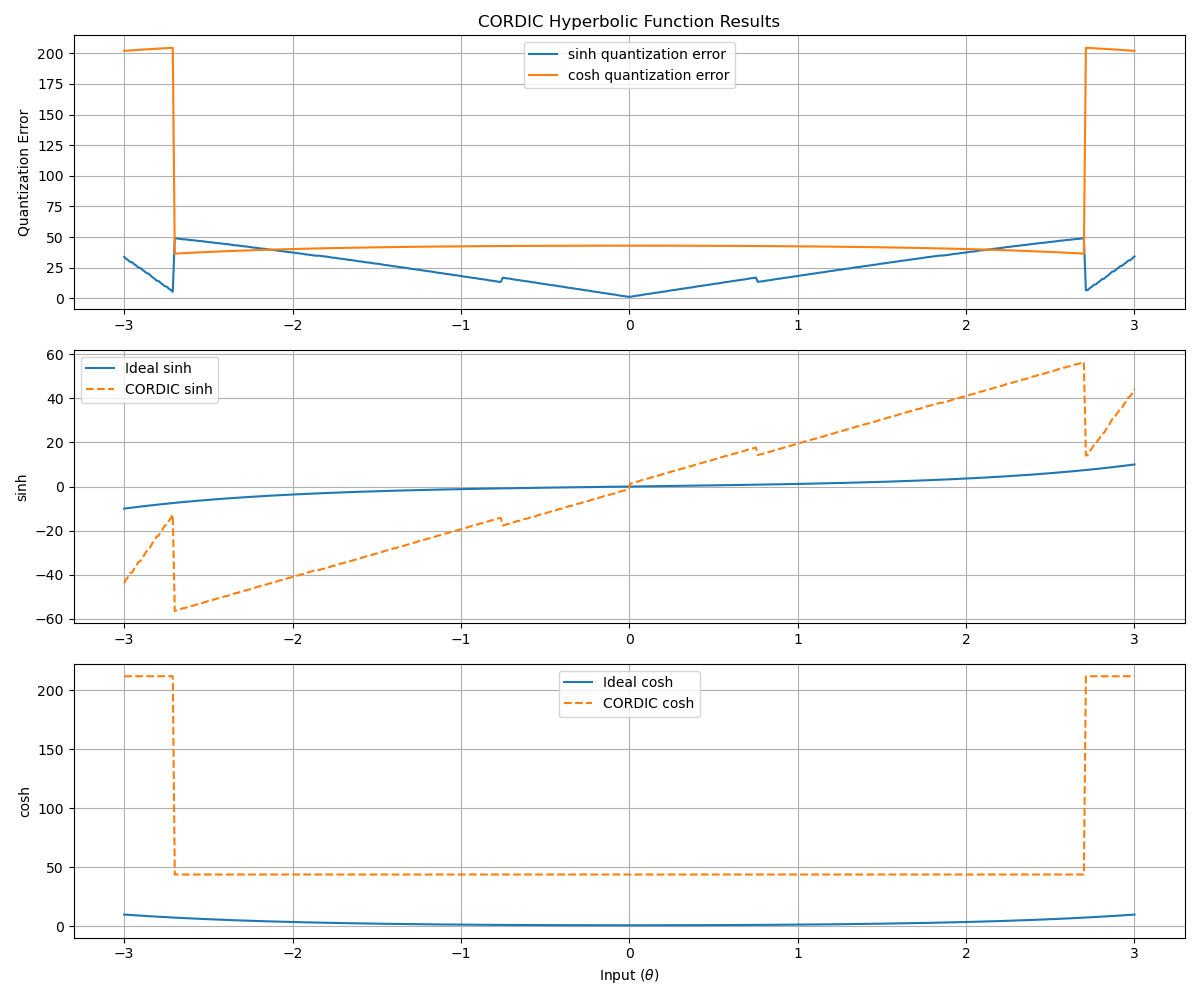
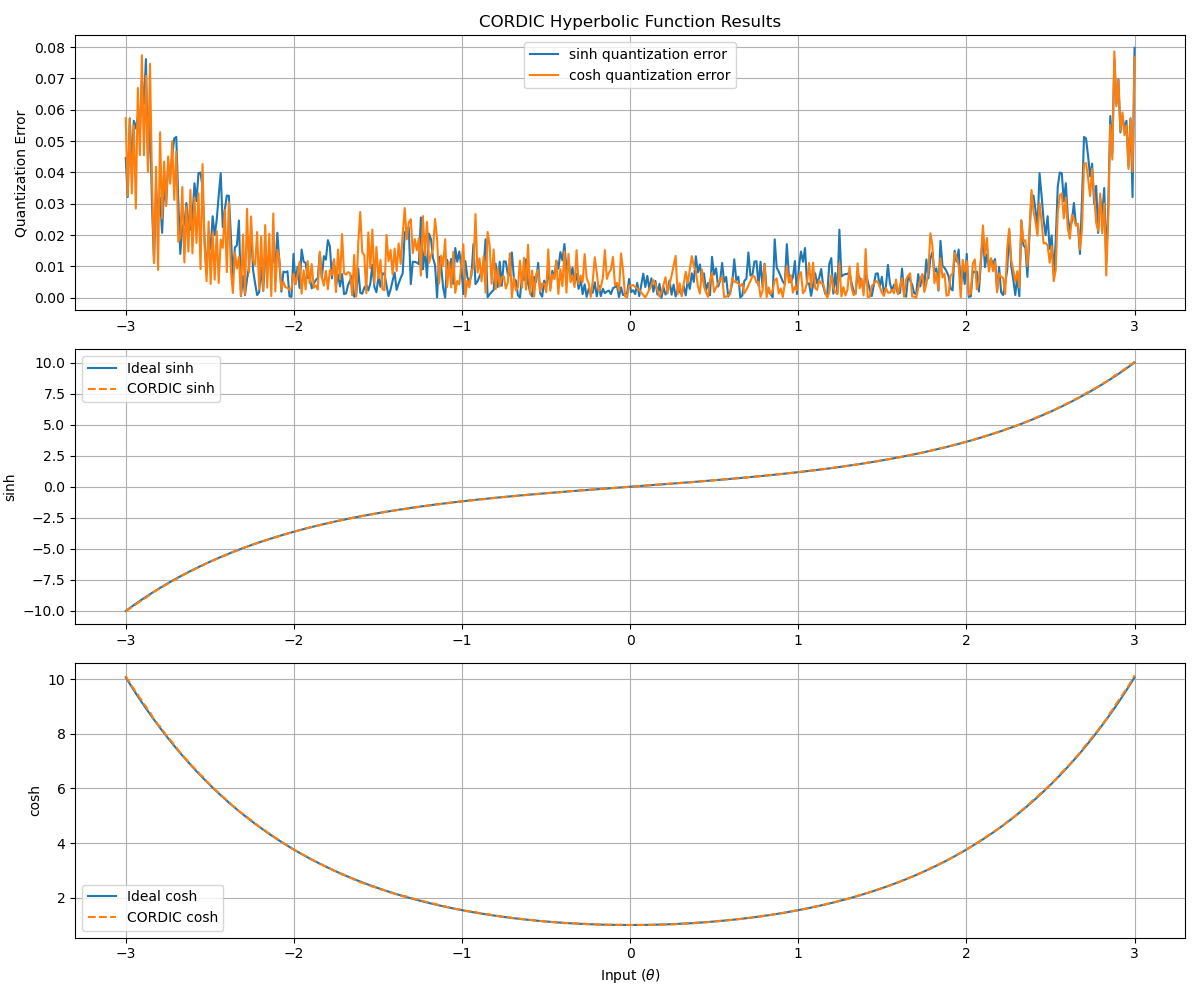
tanh function working

diff --git a/python_scripts/utils/cordic_dnn_operations.py b/python_scripts/utils/cordic_dnn_operations.py
@@ -102,7 +102,7 @@ def cordic_hyperbolic(theta, is_tanh=True, N=16, R=8):
     """
     n_rotations = 11
     # account for sigmoid if necessary
-    if is_tanh:
+    if not is_tanh:
         theta = np.trunc(theta / 2)
     
     # set rotation constants in fixed point
@@ -112,7 +112,7 @@ def cordic_hyperbolic(theta, is_tanh=True, N=16, R=8):
 
     # set inputs to be arrays
     theta = fix_type(theta)
-    x = fp_quantize(Kh_fp, N, R) + np.zeros(theta.shape)
+    x = Kh_fp + np.zeros(theta.shape)
     y = np.zeros(theta.shape)   
     z = theta
 
@@ -138,7 +138,6 @@ def cordic_hyperbolic(theta, is_tanh=True, N=16, R=8):
         y[i+1, :] = y[i, :] - sigma[i, :] * (x[i, :] - np.trunc(x[i, :].astype(int)>>(-j_current+2)))
         z[i+1, :] = z[i, :] + sigma[i, :] * lut_expand[i]
     
-    pdb.set_trace()
     for i in range(len(lut_standard)):
         j_current = index_standard[i]
         
@@ -147,9 +146,9 @@ def cordic_hyperbolic(theta, is_tanh=True, N=16, R=8):
         sigma[i+(M+1), ~filt] = -1
 
         x[i+(M+1)+1, :] = x[i+(M+1), :] - sigma[i+(M+1), :] * \
-            np.trunc(y[i+3, :].astype(int)>>j_current)
+            np.trunc(y[i+(M+1), :].astype(int)>>j_current)
         y[i+(M+1)+1, :] = y[i+(M+1), :] - sigma[i+(M+1), :] * \
-            np.trunc(x[i+3, :].astype(int)>>j_current)
+            np.trunc(x[i+(M+1), :].astype(int)>>j_current)
         z[i+(M+1)+1, :] = z[i+(M+1), :] + sigma[i+(M+1), :] * lut_standard[i]
 
     sinh = x[-1,:]

diff --git a/python_scripts/test_input_gen/generate_cordic_afb.py b/python_scripts/test_input_gen/generate_cordic_afb.py
@@ -61,7 +61,7 @@ def analyze_hyperbolic_results():
     # Convert fixed-point results back to float
     sinh_cordic = sinh_fp / (2 ** R)
     cosh_cordic = cosh_fp / (2 ** R)
-   
+
     # Quantization error
     sinh_error = np.abs(sinh_ideal - sinh_cordic)
     cosh_error = np.abs(cosh_ideal - cosh_cordic)
